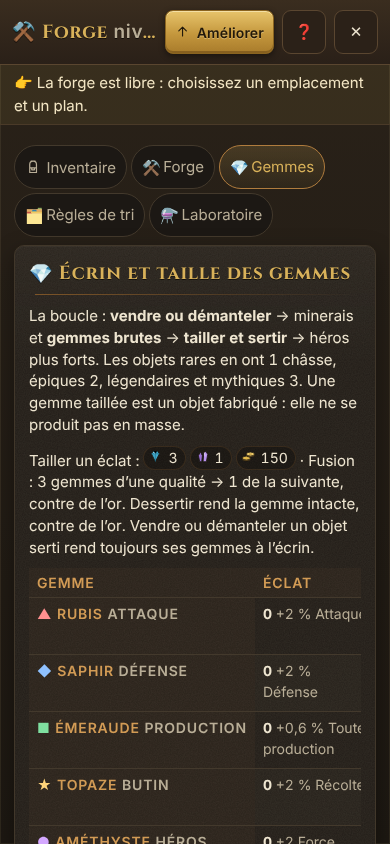
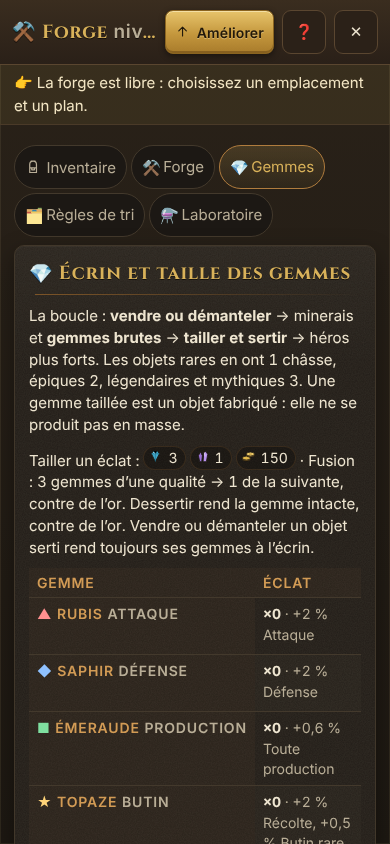
v18 « L'Armurerie » : simulations, performances, captures après, V18.md complet
Claude-Session: https://claude.ai/code/session_01PvYb31d9NPb9pjYydBhkhC

diff --git a/docs/V18.md b/docs/V18.md
@@ -202,15 +202,53 @@ Même sauvegarde (12 héros, 300 objets), mêmes tâches, clics réellement effe
 
 ## 11. Performances
 
-⟨PERF⟩
+| Mesure (médiane) | v17 | v18 |
+|---|---|---|
+| Équipement automatique de toute la troupe (12 héros, 300 objets), calcul | — | **28 ms** (test : < 400 ms) |
+| Badge « Meilleur pour » sur 300 objets | — | 8 ms |
+| Ouvrir la Taverne (sauvegarde pleine) | 166 ms | **80 ms** : l'inventaire du héros est trié par gain et montre 24 pièces à la fois, avec « Afficher plus » |
+| Ouvrir l'Artisanat (sauvegarde pleine) | 78 ms | 74 ms |
+| Carte du royaume, premier rendu (1400 × 900 / 1024 × 640 / 390 × 844) | 93 / 56 / 48 ms | 100 / 56 / 51 ms |
+| Carte, glisser (image médiane) | 6,2 / 6,5 / 5,3 ms | 6,2 / 6,0 / 5,7 ms |
+| Carte, zoom (95e centile) | 17,9 / 19,9 / 17,1 ms | 21,5 / 18,2 / 18,1 ms |
+
+Médianes de 7 ouvertures (fenêtres) et de 5 passages de `tools/v16perf.cjs` (carte) ; fichiers `docs/v18/avant/perf-royaume-fil.json` et `docs/v18/apres/perf-royaume-fil.json`.
+- **La carte n'a pas changé en v18** : les écarts sont dans le bruit de la machine. Lors d'une première série de 3 passages, la v17 mesurait 104 ms pour le premier rendu en 1024 × 640, et la v18 95 ms en 1400 × 900.
+- **La Taverne s'ouvre deux fois plus vite** : elle n'affiche plus tout l'inventaire d'un coup.
+- La version compilée passe de 1 773 à 1 853 Ko (un seul fichier, hors ligne).
 
 ## 12. Simulations (économie des gemmes et de l'or, puissance des héros)
 
-⟨SIM⟩
+`node tools/profileSim.js 7 2` (7 jours, 2 parties par profil), v17 figée contre v18, lancés en même temps. Les mêmes relevés ont été ajoutés aux deux versions : puissance des héros, objets, pièces portées, or et gemmes de vente, gemmes taillées, objets démantelés. Le joueur simulé v18 (`tools/v18bot.js`) se comporte ainsi :
+- toutes les 6 h de jeu, il équipe toute la troupe ;
+- il pose deux règles de tri (démanteler les communs inutiles, vendre les rares inutiles) ;
+- il taille et sertit une gemme quand il a au moins 30 gemmes brutes.
+
+Le profil Occasionnel ne touche à rien.
+
+| Profil | Puissance des héros | Pièces portées | Or de vente (7 j) | Gemmes de vente (7 j) | Gemmes taillées | Gemmes en réserve | Or/h | Raids perdus |
+|---|---|---|---|---|---|---|---|---|
+| Occasionnel | 41,5 → 38 | 0 → 0 | 0 | 0 | 0 | 0 → 0 | 688 → 954 | 6 → 5,5 |
+| Actif | 112 → 96,5 | 0 → 4 | 289 | 0 | 0 | 13,5 → 12,5 | 2 861 → 2 608 | 6,5 → 6 |
+| Très optimisé | 154 → **177** | 0 → **16,5** | 765 | 1,5 | 3 | 49 → 45 | 10 544 → 9 484 | 3,5 → 4,5 |
+| Économie | 64,5 → 74 | 0 → 4 | 285 | 0 | 0 | 18 → 7 | 3 094 → 3 329 | 7 → 5,5 |
+| Armée | 75 → **103** | 0 → 8 | 551 | 1,5 | 1,5 | 13,5 → 31,5 | 3 184 → 2 511 | 7,5 → 6 |
+| Exploration | 60 → 78,5 | 0 → 4,5 | 399 | 1 | 0 | 3,5 → 9,5 | 3 096 → 2 691 | 7,5 → 6 |
+| Diplomatie | 64,5 → 71,5 | 0 → 3 | 66 | 0 | 0 | 6,5 → 3 | 3 307 → 2 944 | 1 → 1 |
+
+**Lecture.**
+- **Les héros sont enfin équipés.** En v17, le joueur simulé ne portait aucune pièce : rien ne l'y aidait. La puissance des héros (somme des caractéristiques) monte de 10 à 37 % selon les profils.
+  - **Actif** baisse (112 → 96,5) : les tirages de héros diffèrent d'une partie à l'autre, et la puissance compte surtout leurs niveaux.
+  - Les effets de rôle (attaque, production…) portés par les pièces ne figurent pas dans cette colonne. C'est une borne basse du gain.
+- **La vente n'est pas une source de gemmes** : au plus **1,5 gemme par semaine** par profil. La source principale reste le jeu (gisements, coffres, événements), et les réserves restent du même ordre (3 à 45). Le quota de 6 gemmes par jour n'est pas même approché. Il protège surtout contre un joueur qui forgerait des bijoux pour les revendre.
+- **L'or de la vente est négligeable** : au plus 765 or en 7 jours, soit moins d'une heure de revenu en fin de partie. La vente sert à libérer l'inventaire, pas à s'enrichir.
+- **Les règles de tri vident l'inventaire** : 50 → 28,5 objets pour « Très optimisé », 28,5 → 12 pour « Armée ». Le plafond de 300 n'est jamais atteint.
+- **Raids perdus** : égaux ou en baisse pour 5 profils sur 7.
+- **Or par heure et richesse** : les écarts vont dans les deux sens (Occasionnel +39 % alors qu'il ne touche à rien ; Armée −21 % d'or par heure mais +46 % de richesse). C'est le bruit de l'outil, non reproductible à l'identique (V17 § 11). La chance d'ensemble ajoute en plus un tirage aux objets rares.
 
 ## 13. Tests
 
-`npm test` : **⟨NTEST⟩ réussis, 0 échec** (365 en v17 ; + 15 tests v18).
+`npm test` : **380 réussis, 0 échec** (365 en v17 ; + 15 tests v18).
 
 **Nouveaux tests** (`tests/v18.test.js`) :
 - **valeur par rôle** : une épée sert au général, pas à l'intendant ; le gain suit `heroMods` ;
@@ -248,7 +286,23 @@ En v18 s'ajoutent :
 - `08-regles-tri` ;
 - `09-conseils-taverne`.
 
-⟨CAPTURES⟩
+**Comparaison honnête** :
+
+| Scène | Plus lisible ? | Ce qui change |
+|---|---|---|
+| 01–02 Héros | Oui | Barre « Équiper toute la troupe », priorités et options en tête. Rôle et vocation lisibles sur chaque carte de héros. Bonus en mots (plus de « prod.grain »). Inventaire trié par gain, avec ▲ / ▼ / ● et « Meilleur pour ». Tenues, ensembles, réservations. La fiche est plus longue qu'en v17 (tenues, comparaison) ; les onglets Héros et Conseils la séparent des conseils. |
+| 03–04 Inventaire, objet | Oui | Onglets, recherche, tri par gain, filtres enregistrés, sélection multiple, badge « Meilleur pour », châsses. La fiche d'objet regroupe vente, démantèlement, châsses, transmutation et réforge. Les décimales passent à la virgule (« +31,1 % »). |
+| 05 Aperçu de la troupe | Nouveau | Un tableau par héros (porté → proposé, gain, effets ▲ ▼ en mots), Valider ou Annuler. |
+| 06 Vente en masse | Nouveau | Filtres, préréglages, total, quota de gemmes, ce qui n'est jamais touché, liste. Sur téléphone, il faut faire défiler jusqu'au bouton de confirmation. |
+| 07 Gemmes | Nouveau | Écrin (formes ▲ ◆ ■ ★ ● et noms), taille, fusion, boucle expliquée. |
+| 08 Règles de tri | Nouveau | Règles en phrase « SI … ALORS … », modèles, rapports. |
+| 09 Conseils | Nouveau | Une ligne chiffrée par héros, « Appliquer », « Tout appliquer ». |
+
+Défauts trouvés sur les captures et corrigés avant livraison :
+- le compte de gemmes était collé à la valeur (« 0 +2 % ») ;
+- le modèle « Garder tout épique ou mieux » gardait en fait tout (rareté minimale ajoutée) ;
+- une étiquette d'ensemble débordait sur téléphone (salle du trésor) ;
+- les boutons des dialogues faisaient moins de 44 px sur téléphone.
 
 ## 15. Ce qui est terminé, partiel ou à surveiller
 
@@ -266,7 +320,9 @@ En v18 s'ajoutent :
 - **Ensembles** : ils apparaissent au fil du butin et de la forge (une pièce rare sur quatre des modèles concernés). Aucun moyen ciblé d'en obtenir, par choix (ni boutique, ni coffre).
 
 ### À surveiller
-- ⟨WATCH⟩
+- **Valeurs des objets de fin de partie** : les affixes atteignent souvent +50 à +80 % (formule v10 inchangée). L'équipement automatique les porte désormais vraiment, et les héros équipés gagnent nettement en efficacité. L'équilibre des combats de fin de partie est à surveiller avec des joueurs réels.
+- **Poids des rôles** (`data/armory.js`) : choisis à la main ; un retour de joueurs pourrait les ajuster (le butin rare pèse lourd en exploration).
+- **Conseils de la taverne** : ils forment un plan d'ensemble. Appliquée seule, une ligne peut ne rien gagner.
 
 ### Commandes non exécutées
 - Aucun essai avec un lecteur d'écran réel ni sur un vrai téléphone (structure, rôles et cibles vérifiés par les outils).
